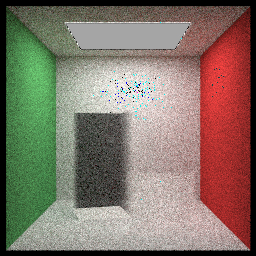
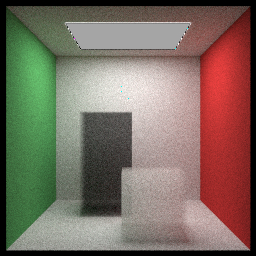
w02 volume

Changed region(s): [[0.0312, 0.0, 1.0, 1.0], [0.1562, 0.375, 0.1875, 0.4062]]

diff --git a/src/w02/main.cpp b/src/w02/main.cpp
@@ -241,21 +241,21 @@ void cornell_box() {
     auto green = std::make_shared<lambertian>(HMM_V3(.12, .45, .15));
     auto light = std::make_shared<diffuse_light>(HMM_V3(15, 15, 15));
 
-    world.add(make_shared<quad>(HMM_V3(555,0,0), HMM_V3(0,555,0), HMM_V3(0,0,555), green));
-    world.add(make_shared<quad>(HMM_V3(0,0,0), HMM_V3(0,555,0), HMM_V3(0,0,555), red));
-    world.add(make_shared<quad>(HMM_V3(343, 554, 332), HMM_V3(-130,0,0), HMM_V3(0,0,-105), light));
-    world.add(make_shared<quad>(HMM_V3(0,0,0), HMM_V3(555,0,0), HMM_V3(0,0,555), white));
-    world.add(make_shared<quad>(HMM_V3(555,555,555), HMM_V3(-555,0,0), HMM_V3(0,0,-555), white));
-    world.add(make_shared<quad>(HMM_V3(0,0,555), HMM_V3(555,0,0), HMM_V3(0,555,0), white));
+    world.add(std::make_shared<quad>(HMM_V3(555,0,0), HMM_V3(0,555,0), HMM_V3(0,0,555), green));
+    world.add(std::make_shared<quad>(HMM_V3(0,0,0), HMM_V3(0,555,0), HMM_V3(0,0,555), red));
+    world.add(std::make_shared<quad>(HMM_V3(343, 554, 332), HMM_V3(-130,0,0), HMM_V3(0,0,-105), light));
+    world.add(std::make_shared<quad>(HMM_V3(0,0,0), HMM_V3(555,0,0), HMM_V3(0,0,555), white));
+    world.add(std::make_shared<quad>(HMM_V3(555,555,555), HMM_V3(-555,0,0), HMM_V3(0,0,-555), white));
+    world.add(std::make_shared<quad>(HMM_V3(0,0,555), HMM_V3(555,0,0), HMM_V3(0,555,0), white));
 
     std::shared_ptr<hittable> box1 = box(HMM_V3(0,0,0), HMM_V3(165,330,165), white);
-    box1 = make_shared<rotate_y>(box1, 15);
-    box1 = make_shared<translate>(box1, HMM_V3(265,0,295));
+    box1 = std::make_shared<rotate_y>(box1, 15);
+    box1 = std::make_shared<translate>(box1, HMM_V3(265,0,295));
     world.add(box1);
 
     std::shared_ptr<hittable> box2 = box(HMM_V3(0,0,0), HMM_V3(165,165,165), white);
-    box2 = make_shared<rotate_y>(box2, -18);
-    box2 = make_shared<translate>(box2, HMM_V3(130,0,65));
+    box2 = std::make_shared<rotate_y>(box2, -18);
+    box2 = std::make_shared<translate>(box2, HMM_V3(130,0,65));
     world.add(box2);
 
     camera cam;
@@ -286,23 +286,23 @@ void cornell_smoke() {
     auto green = std::make_shared<lambertian>(HMM_V3(.12, .45, .15));
     auto light = std::make_shared<diffuse_light>(HMM_V3(7, 7, 7));
 
-    world.add(make_shared<quad>(HMM_V3(555,0,0), HMM_V3(0,555,0), HMM_V3(0,0,555), green));
-    world.add(make_shared<quad>(HMM_V3(0,0,0), HMM_V3(0,555,0), HMM_V3(0,0,555), red));
-    world.add(make_shared<quad>(HMM_V3(113,554,127), HMM_V3(330,0,0), HMM_V3(0,0,305), light));
-    world.add(make_shared<quad>(HMM_V3(0,555,0), HMM_V3(555,0,0), HMM_V3(0,0,555), white));
-    world.add(make_shared<quad>(HMM_V3(0,0,0), HMM_V3(555,0,0), HMM_V3(0,0,555), white));
-    world.add(make_shared<quad>(HMM_V3(0,0,555), HMM_V3(555,0,0), HMM_V3(0,555,0), white));
+    world.add(std::make_shared<quad>(HMM_V3(555,0,0), HMM_V3(0,555,0), HMM_V3(0,0,555), green));
+    world.add(std::make_shared<quad>(HMM_V3(0,0,0), HMM_V3(0,555,0), HMM_V3(0,0,555), red));
+    world.add(std::make_shared<quad>(HMM_V3(113,554,127), HMM_V3(330,0,0), HMM_V3(0,0,305), light));
+    world.add(std::make_shared<quad>(HMM_V3(0,555,0), HMM_V3(555,0,0), HMM_V3(0,0,555), white));
+    world.add(std::make_shared<quad>(HMM_V3(0,0,0), HMM_V3(555,0,0), HMM_V3(0,0,555), white));
+    world.add(std::make_shared<quad>(HMM_V3(0,0,555), HMM_V3(555,0,0), HMM_V3(0,555,0), white));
 
     std::shared_ptr<hittable> box1 = box(HMM_V3(0,0,0), HMM_V3(165,330,165), white);
-    box1 = make_shared<rotate_y>(box1, 15);
-    box1 = make_shared<translate>(box1, HMM_V3(265,0,295));
+    //box1 = std::make_shared<rotate_y>(box1, 15);
+    box1 = std::make_shared<translate>(box1, HMM_V3(265,0,295));
 
     std::shared_ptr<hittable> box2 = box(HMM_V3(0,0,0), HMM_V3(165,165,165), white);
-    box2 = make_shared<rotate_y>(box2, -18);
-    box2 = make_shared<translate>(box2, HMM_V3(130,0,65));
+    //box2 = std::make_shared<rotate_y>(box2, -18);
+    box2 = std::make_shared<translate>(box2, HMM_V3(130,0,65));
 
-    world.add(make_shared<constant_medium>(box1, 0.01, HMM_V3(0,0,0)));
-    world.add(make_shared<constant_medium>(box2, 0.01, HMM_V3(1,1,1)));
+    world.add(std::make_shared<constant_medium>(box1, 0.01, HMM_V3(0,0,0)));
+    world.add(std::make_shared<constant_medium>(box2, 0.01, HMM_V3(1,1,1)));
 
     camera cam;
 

diff --git a/src/w02/hittable.h b/src/w02/hittable.h
@@ -367,8 +367,8 @@ public:
                     HMM_Vec3 tester = HMM_V3(newx, y, newz);
 
                     for (int c = 0; c < 3; c++) {
-                        min[c] = fmin(min[c], tester[c]);
-                        max[c] = fmax(max[c], tester[c]);
+                        min[c] = std::fminf(min[c], tester[c]);
+                        max[c] = std::fmaxf(max[c], tester[c]);
                     }
                 }
             }
